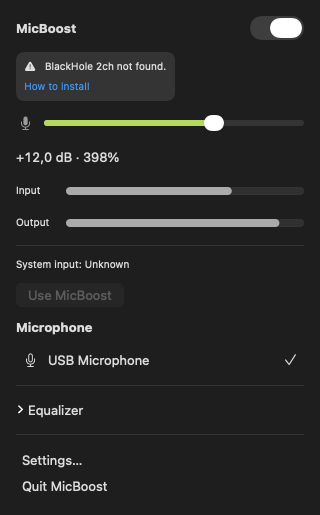
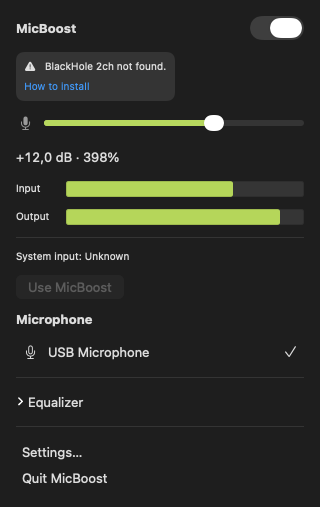
Show audio peaks with immediate native level indicators

diff --git a/Sources/MicBoostUI/AppModel.swift b/Sources/MicBoostUI/AppModel.swift
@@ -15,7 +15,6 @@ public func localized(_ key: String) -> String {
     public var error: EngineError?
     public var inputDB = -60.0
     public var outputDB = -60.0
-    public var clipped = false
     public var limitingUntil = Date.distantPast
     public var panelVisible = false
     public var settingsVisible = false
@@ -40,6 +39,10 @@ public func localized(_ key: String) -> String {
         return "\(db >= 0 ? "+" : "")\(number) dB · \(Int((100 * pow(10, db / 20)).rounded()))%"
     }
     public static func gainStep(option: Bool) -> Double { option ? 1 : 0.5 }
+    public static func meterFraction(_ db: Double) -> Double {
+        guard db.isFinite else { return 0 }
+        return min(1, max(0, (db + 60) / 60))
+    }
     public var icon: String {
         if error != nil || status?.defaultInput.divergedByUser == true { return "exclamationmark.triangle.fill" }
         if !controls.processingEnabled { return "mic" }
@@ -184,7 +187,6 @@ public func localized(_ key: String) -> String {
                 let output = max(-60, 20 * log10(max(Double(meter.outputPeak), 0.001)))
                 inputDB = direct ? input : max(input, inputDB - decay)
                 outputDB = direct ? output : max(output, outputDB - decay)
-                clipped = meter.inputClipped
                 if meter.gainReductionDB > 1 { limitingUntil = now.addingTimeInterval(0.3) }
                 try? await Task.sleep(for: .milliseconds(50))
             }

diff --git a/Sources/MicBoostUI/Views.swift b/Sources/MicBoostUI/Views.swift
@@ -71,7 +71,7 @@ import SwiftUI
                         .monospacedDigit()
                 }
                 Spacer(minLength: 8)
-                Text(localized("Limiting"))
+                Text(localized("Limiter active"))
                     .font(.caption)
                     .padding(.horizontal, 8)
                     .background(.quaternary, in: Capsule())
@@ -81,7 +81,6 @@ import SwiftUI
             }.frame(minHeight: 24)
             meter("Input", model.inputDB)
             meter("Output", model.outputDB)
-            if model.clipped { Text(localized("Input clipped")).font(.caption).foregroundStyle(.red) }
             Divider()
             if model.status?.defaultInput.isBlackHole == true {
                 Label(localized("System input: MicBoost"), systemImage: "checkmark.circle.fill").font(.caption)
@@ -168,7 +167,7 @@ import SwiftUI
     private func meter(_ title: String, _ db: Double) -> some View {
         HStack {
             Text(localized(title)).font(.caption).frame(width: 42, alignment: .leading)
-            ProgressView(value: (db + 60) / 60).tint(db > -1 ? .red : .accentColor)
+            LevelMeterView(fraction: AppModel.meterFraction(db)).frame(maxWidth: .infinity)
                 .accessibilityLabel(localized(title)).accessibilityValue("\(Int(db)) dBFS")
         }
     }

diff --git a/Sources/MicBoostUI/LevelMeterView.swift b/Sources/MicBoostUI/LevelMeterView.swift
@@ -1,0 +1,27 @@
+import AppKit
+import SwiftUI
+
+/// Audio peaks are instantaneous levels, not animated task completion.
+@MainActor struct LevelMeterView: NSViewRepresentable {
+    var fraction: Double
+
+    func makeNSView(context: Context) -> NSLevelIndicator {
+        let indicator = NSLevelIndicator()
+        indicator.levelIndicatorStyle = .continuousCapacity
+        indicator.minValue = 0
+        indicator.maxValue = 1
+        indicator.isEditable = false
+        return indicator
+    }
+
+    func updateNSView(_ indicator: NSLevelIndicator, context: Context) {
+        indicator.fillColor = .controlAccentColor
+        indicator.warningFillColor = .controlAccentColor
+        indicator.criticalFillColor = .controlAccentColor
+        indicator.doubleValue = fraction
+    }
+
+    func sizeThatFits(_ proposal: ProposedViewSize, nsView: NSLevelIndicator, context: Context) -> CGSize? {
+        CGSize(width: proposal.width ?? 100, height: nsView.intrinsicContentSize.height)
+    }
+}

diff --git a/Sources/render-screenshots/main.swift b/Sources/render-screenshots/main.swift
@@ -18,6 +18,8 @@ import SwiftUI
         let scheme: ColorScheme = dark ? .dark : .light
         for kind in ["panel", "eq", "settings", "error"] {
             model.expanded = kind == "eq"
+            model.inputDB = kind == "panel" ? 0 : -18
+            model.outputDB = kind == "panel" ? -1 : -6
             model.limitingUntil = kind == "panel" ? .distantFuture : .distantPast
             model.error = kind == "error" ? .blackHoleMissing : nil
             let view = kind == "settings" ? AnyView(SettingsView(model: model)) : AnyView(PanelView(model: model))

diff --git a/Tests/MicBoostUITests/AppModelTests.swift b/Tests/MicBoostUITests/AppModelTests.swift
@@ -49,3 +49,13 @@ import Testing
     #expect(quietSize.width == 320 && quietSize.height > 0)
     #expect(limitingSize == quietSize)
 }
+
+@MainActor @Test func meterScaleReachesItsEndpoints() {
+    #expect(AppModel.meterFraction(-60) == 0)
+    #expect(AppModel.meterFraction(-30) == 0.5)
+    #expect(AppModel.meterFraction(0) == 1)
+    #expect(AppModel.meterFraction(6) == 1)
+    #expect(AppModel.meterFraction(-90) == 0)
+    #expect(abs(AppModel.meterFraction(-1) - 59.0 / 60.0) < 1e-12)
+    #expect(AppModel.meterFraction(.nan) == 0)
+}

diff --git a/docs/ui.md b/docs/ui.md
@@ -38,8 +38,8 @@ Conteúdo, de cima para baixo (SwiftUI, `PanelView`):
    - **Desligar:** para o motor por completo (rampa, `AudioDeviceStop`, IOProc e agregado destruídos), de modo que o microfone deixa de ser capturado e o indicador de microfone do macOS apaga. A entrada padrão é restaurada conforme a [política](audio-engine.md#política-de-entrada-padrão-defaultinputmanager), e o ícone vira `mic`.
    - **Ligar:** reconstrói o motor com a fonte e os ajustes persistidos e reaplica a política de entrada padrão.
    - O estado persiste (`processingEnabled`), e a troca nunca fecha o painel.
-2. **Ganho:** botão de mute com o ícone `mic.fill`/`mic.slash.fill` centralizado em uma área fixa de 20 × 20 pt para não deslocar o slider ao alternar, `Slider` de ganho de −12 a +24 dB e rótulo `+12,0 dB · 398%`. O valor é editável: clicar no rótulo abre um campo numérico em dB. O selo "Limitando" (pílula discreta) aparece ao lado do valor de ganho durante a proteção de pico; sua área permanece reservada e o selo fica oculto para acessibilidade quando inativo, sem alterar a altura do painel ou deslocar controles.
-3. **Medidores:** duas barras finas horizontais, "Entrada" e "Saída", em dBFS de −60 a 0, que só mudam de cor perto de 0. Aviso "Entrada saturada" quando `input_clipped`.
+2. **Ganho:** botão de mute com o ícone `mic.fill`/`mic.slash.fill` centralizado em uma área fixa de 20 × 20 pt para não deslocar o slider ao alternar, `Slider` de ganho de −12 a +24 dB e rótulo `+12,0 dB · 398%`. O valor é editável: clicar no rótulo abre um campo numérico em dB. O selo "Limitador ativo" (pílula discreta) aparece ao lado do valor de ganho durante a proteção de pico; sua área permanece reservada e o selo fica oculto para acessibilidade quando inativo, sem alterar a altura do painel ou deslocar controles.
+3. **Medidores:** duas barras finas horizontais, "Entrada" e "Saída", em dBFS de −60 a 0, sempre na cor de destaque do sistema, sem flash vermelho nem aviso textual de saturação.
 4. **Entrada do sistema:** apenas o estado da entrada padrão; a fonte selecionada é indicada pela marcação na lista de microfones, sem uma linha adicional de caminho do áudio:
    - ok: "Entrada do sistema: MicBoost" com marcação;
    - divergência: "Entrada do sistema: <nome>" + botão "Usar MicBoost".
@@ -74,7 +74,9 @@ Uma faixa no topo do conteúdo, abaixo do cabeçalho, mostra uma mensagem por ve
 
 ### Medidores na UI
 
-`MeterPoller` (main actor) lê `mb_engine_read_meters` por meio do controller a 20 Hz, só enquanto o painel está visível, e aplica decaimento visual de 20 dB/s calculado a cada leitura. Subidas usam o pico da leitura seguinte; apenas a queda é gradual (30 dB levam 1,5 s). Essa duração visual é independente da latência do áudio. Com "Reduzir movimento", não há interpolação: cada leitura é exibida diretamente.
+`NSLevelIndicator` contínuo apresenta os valores sem interpolação de progresso. As
+cores normal, de aviso e crítica usam `NSColor.controlAccentColor`, mantendo a mesma
+cor em toda a faixa. `MeterPoller` (main actor) lê `mb_engine_read_meters` por meio do controller a 20 Hz, só enquanto o painel está visível, e aplica decaimento visual de 20 dB/s calculado a cada leitura. Subidas usam o pico da leitura seguinte; apenas a queda é gradual (30 dB levam 1,5 s). Essa duração visual é independente da latência do áudio. Com "Reduzir movimento", não há interpolação: cada leitura é exibida diretamente.
 
 ## Janela de ajustes
 
@@ -95,9 +97,9 @@ junto ao rótulo e linhas de diagnóstico/sobre com rótulo à esquerda e valor 
 - Atalhos com o painel focado: `M` alterna o mute, `Esc` fecha, ⌘, abre os ajustes.
 - VoiceOver:
   - sliders com `accessibilityLabel` ("Ganho", "Graves, ganho"…) e `accessibilityValue` em dB e percentual;
-  - estados ("Limitando", "Entrada saturada", divergência) anunciados como valor ou dica, não só como cor;
+  - estados ("Limitador ativo", divergência) anunciados como valor ou dica, não só como cor;
   - lista de microfones com estado "selecionado".
-- Contraste e cores: só cores semânticas do sistema (`.primary`, `.secondary`, `.tint`, `.red` para clipping).
+- Contraste e cores: só cores semânticas do sistema (`.primary`, `.secondary`, `.tint`).
 - Aparência clara e escura e "Aumentar contraste" seguem o sistema automaticamente.
 
 ## Primeira execução
@@ -128,3 +130,8 @@ transformações de escala nem desenhar uma versão própria desse controle.
 O menu ativa o app ao abrir para que os controles AppKit sejam apresentados ativos.
 Os toggles usam `.toggleStyle(.switch)`, sem tamanho, escala, tint ou estado visual
 forçados: o AppKit escolhe as métricas e a cor de destaque a partir do sistema.
+
+Os medidores usam escala fixa de −60 a 0 dBFS: 0 dBFS preenche 100% da barra.
+O teto do limitador permanece em −1 dBFS, correspondente a 98,33% nessa escala;
+não alterar a escala nem o teto do áudio para preencher artificialmente a saída.
+Valores fora da faixa são limitados a 0…100% apenas para desenhar a barra.

diff --git a/docs/testing.md b/docs/testing.md
@@ -161,8 +161,8 @@ Capturas claras/escuras verificadas visualmente; sliders sem marcas de passo.
 VoiceOver, todos os atalhos, reduzir movimento/transparência e contraste aumentado
 permanecem sem validação manual completa. A etapa 4 permanece em andamento.
 
-Verificação automatizada da interface: 54 testes (3 UI, 11 DSP, 40 Core),
-execução somada de 1,72 s; a suíte Core inclui o caso negativo
+Verificação automatizada da interface: 56 testes (5 UI, 11 DSP, 40 Core),
+execução somada de aproximadamente 2 s; a suíte Core inclui o caso negativo
 `fakeRejectsOutputWrite`, que registra uma issue conhecida intencionalmente.
 `swift build`, `swift test`, lint recursivo de formatação, montagem debug e
 `codesign --verify --strict` passam na máquina de referência.
@@ -193,3 +193,10 @@ Cadência dos medidores com o menu aberto: em 20 intervalos consecutivos, median
 Medição com relógio monotônico na chegada dos snapshots à UI; não representa
 a latência entre falar e o pixel mudar. O decaimento visual é separado: 20 dB/s,
 ou 1,5 s para cair 30 dB, sem atraso de ataque adicionado pelo modelo.
+
+Ensaio visual de degrau 0 → 100% no macOS 27.2, com a mesma atualização SwiftUI
+para os dois controles: numa captura solicitada 100 ms depois do degrau,
+`ProgressView` ainda ocupava aproximadamente um terço da faixa; `NSLevelIndicator`
+já preenchia toda a faixa. O painel usa o indicador de nível nativo para não
+interpolar a apresentação dos picos. A escala foi conferida em 0 dBFS (100%) e
+−1 dBFS (98,33%), com clamp somente fora de −60…0 dBFS.

diff --git a/README.md b/README.md
@@ -69,8 +69,10 @@ Available today:
   lid closed, for example — produces silence in BlackHole, not noise.
 
 - **Standard macOS menu surface**, with system-managed appearance and dismissal, without a popover arrow.
-- **Level meters** refresh about 20 times per second, with gradual peak decay; this visual
-  decay does not delay the audio.
+- **Level meters** refresh about 20 times per second, with gradual peak decay. Native level
+  indicators show each new peak directly; the stable **Limiter active** indicator shows
+  peak protection. Their scale ends at 0 dBFS, so the protected
+  −1 dBFS output reaches about 98.3% of the bar. This visual decay does not delay the audio.
 - **Menu bar panel** with gain, meters, routing status, microphones and EQ, plus settings for
   buffer, channels, automatic system input switching and diagnostics, using native grouped
   sections and switches.
@@ -182,7 +184,7 @@ Full results and conditions: [docs/testing.md](docs/testing.md#resultados-regist
   permission granted and the callbacks keep firing, but they deliver zeros; MicBoost cannot
   capture audio in that state.
 - **Digital gain amplifies noise too**, and it cannot recover audio that was already clipped at
-  the source. The panel shows input clipping.
+  the source.
 
 ## Troubleshooting
 

diff --git a/docs/dsp.md b/docs/dsp.md
@@ -79,7 +79,7 @@ Limitador de pico sem lookahead, com ataque instantâneo:
 - Ganho do limitador `g`: se `target < g`, então `g = target` (ataque instantâneo, garante |y| ≤ teto). Caso contrário, `g` volta para 1 com liberação exponencial τ = 150 ms.
 - Ligado entre canais (mesmo `g` em L e R).
 - Clamp final a ±1,0 só como guarda numérica. Com o limitador correto, ele nunca deve atuar.
-- Indicação: redução de ganho (GR) em dB publicada nos medidores. A UI mostra "Limitando" quando o GR passa de 1 dB nos últimos 300 ms.
+- Indicação: redução de ganho (GR) em dB publicada nos medidores. A UI mostra "Limitador ativo" quando o GR passa de 1 dB nos últimos 300 ms.
 
 A distorção de transientes, consequência de não haver lookahead, é aceita na v1.
 
